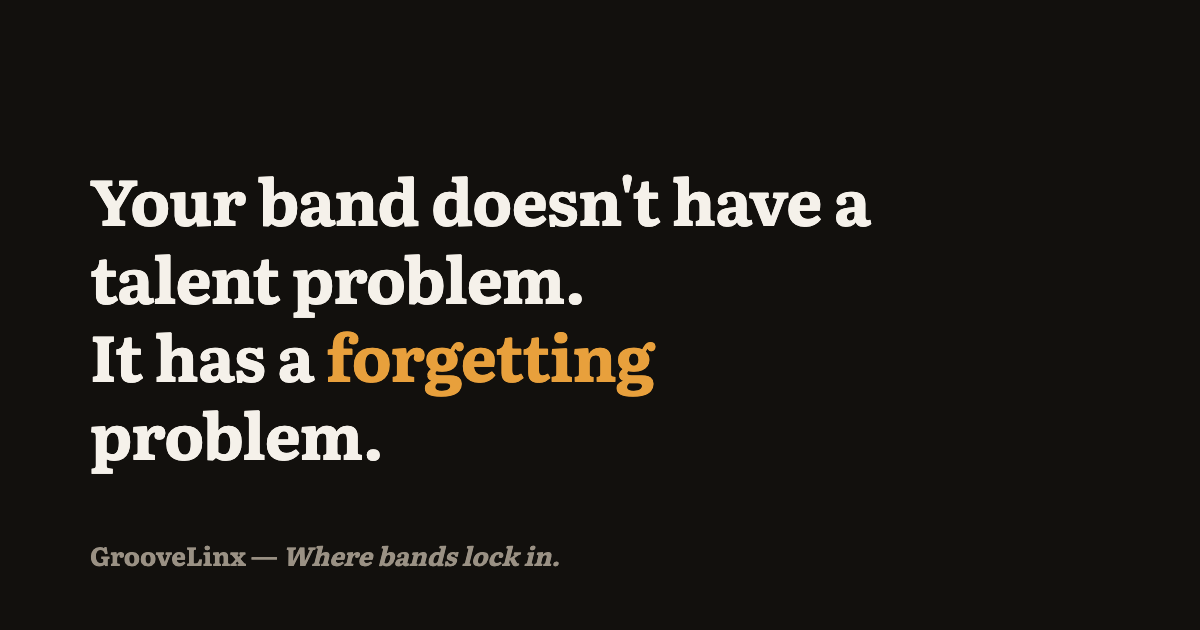
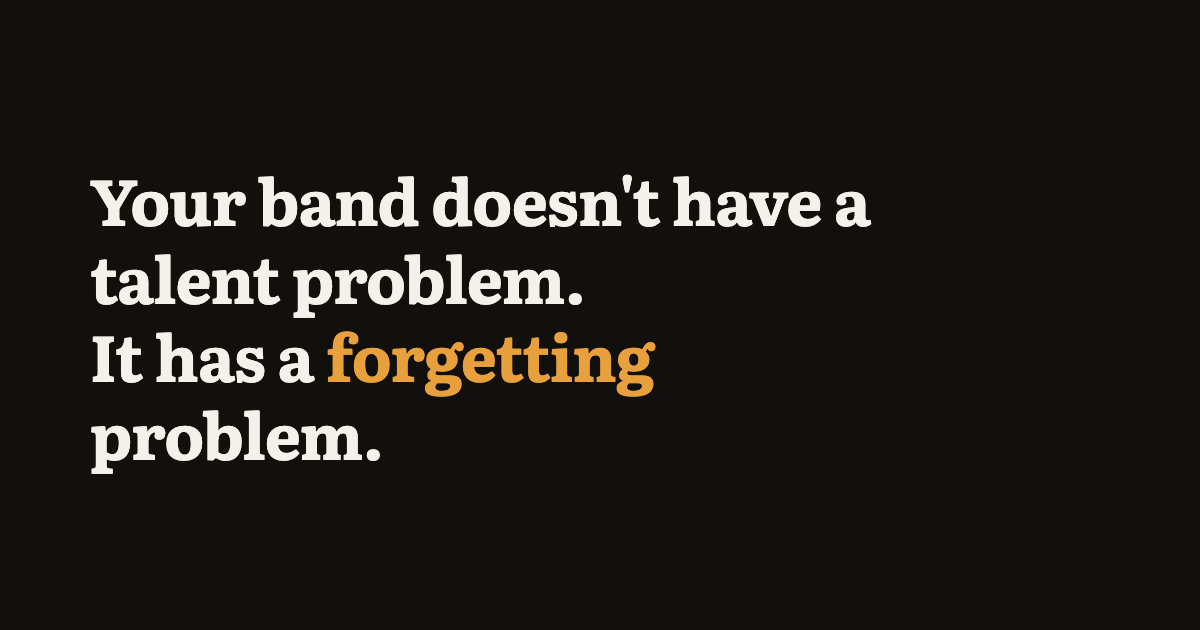
fix(og): remove duplicated 'Where bands lock in' tagline baked into og-home.png
The OG card rendered the tagline twice — once in the image and once as the
platform-supplied og:title — visibly overlapping on X/LinkedIn link cards.
Removed the baked-in bottom line from og-home.png (headline untouched) so the
title appears once. Bumped og:image to ?v=2 to force platforms to re-scrape.

🤖 Generated with [Claude Code](https://claude.com/claude-code)

Changed region(s): [[0.0617, 0.8444, 0.4625, 0.9048]]

diff --git a/index.html b/index.html
@@ -7,7 +7,7 @@
   <meta name="description" content="Your band doesn't have a talent problem. It has a forgetting problem. GrooveLinx is the band's memory — where bands lock in." />
   <meta property="og:title" content="GrooveLinx — Where bands lock in" />
   <meta property="og:description" content="Your band doesn't have a talent problem. It has a forgetting problem." />
-  <meta property="og:image" content="https://groovelinx.com/og-home.png" />
+  <meta property="og:image" content="https://groovelinx.com/og-home.png?v=2" />
   <meta property="og:image:width" content="1200" />
   <meta property="og:image:height" content="630" />
   <meta name="twitter:card" content="summary_large_image" />
